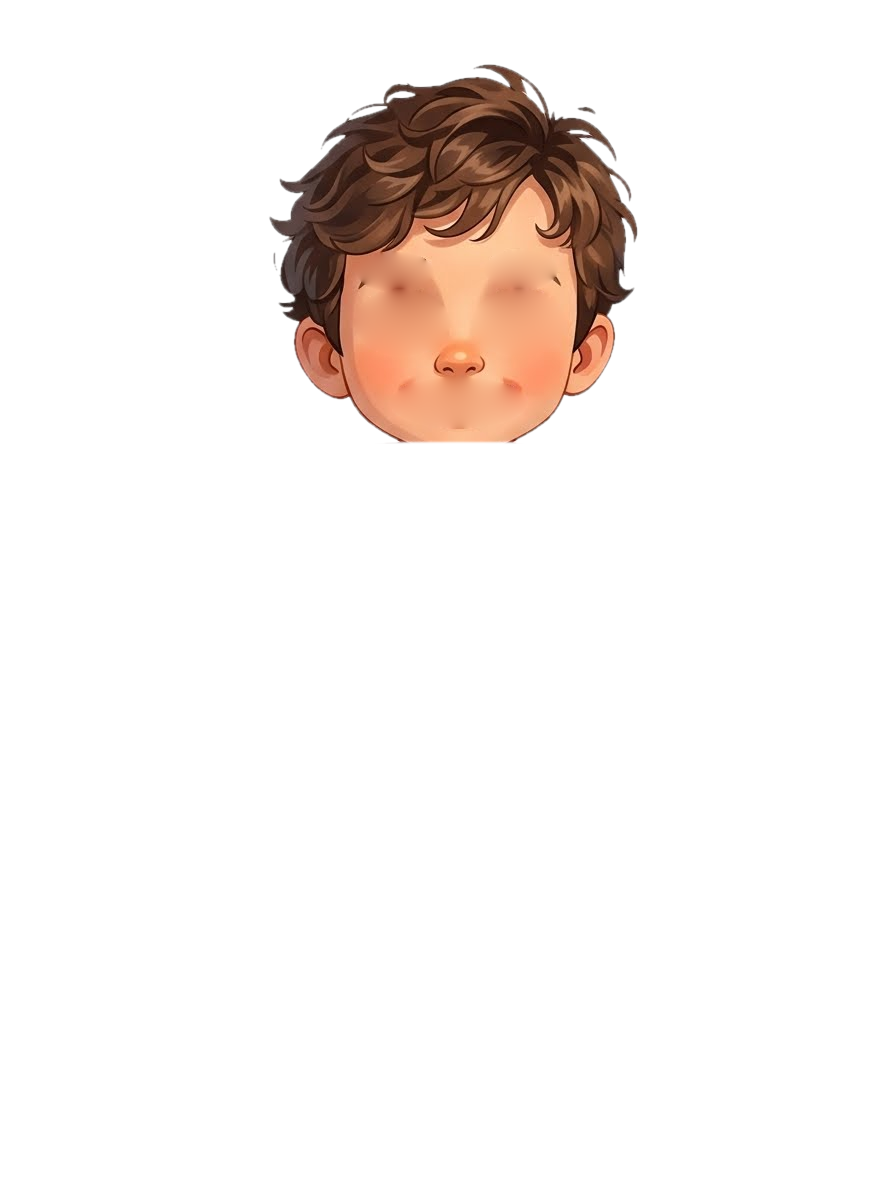
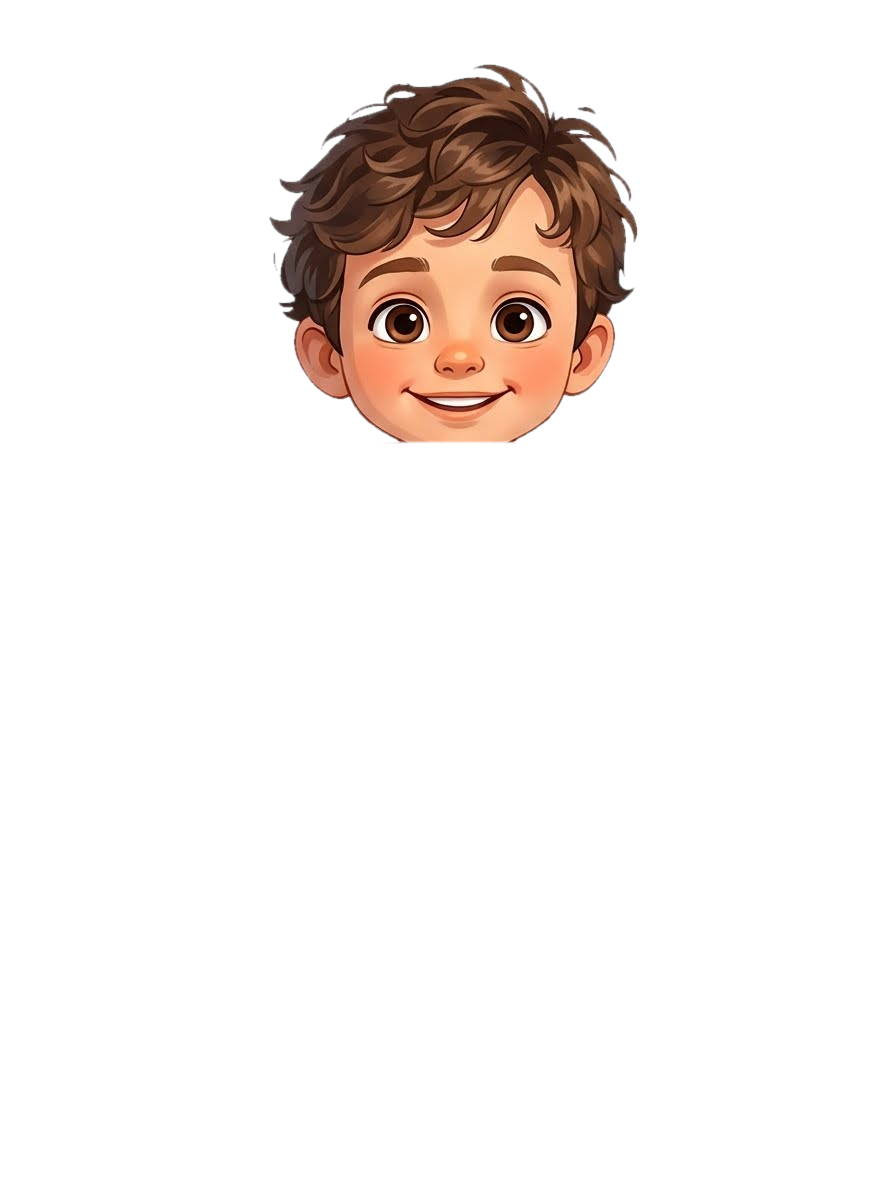
Caras: el dibujo original de E y R, sin redibujar (#3)
* Caras: el dibujo original de E y R, sin redibujar

Chiño quiere en los vídeos exactamente las caras de sus ilustraciones.
head.png conserva la cara tal cual; prepare_characters.py saca del propio
dibujo dos capas pequeñas: blink.png (ojos cerrados) y jaw.png (lo que hay
bajo el labio, que baja al hablar sobre el interior de la boca). Fuera los
ojos, cejas y boca vectoriales. El cuerpo empieza 5 px por debajo de la
cabeza para que no se vea la costura del cuello al moverla.

Claude-Session: https://claude.ai/code/session_0193hWfzVzPtkdWeitjtRJrp

* Bocadillos que apuntan al que habla y caras sin deformar

- stage.js calcula dónde está en pantalla la boca de cada niño (con la
  cámara y la profundidad) y el bocadillo se coloca debajo del que habla,
  con la cola hacia su boca; en "ambos", una cola hacia cada uno.
- puppets.js ya no aplasta ni estira a los niños (squash): siempre la
  proporción del dibujo.

Claude-Session: https://claude.ai/code/session_0193hWfzVzPtkdWeitjtRJrp

* Bocadillos sin etiqueta de nombre

Chiño: fuera la E / R de debajo de los bocadillos. Quién habla se ve por
la cola (hacia su boca) y el color de la palabra.

Claude-Session: https://claude.ai/code/session_0193hWfzVzPtkdWeitjtRJrp

---------

Changed region(s): [[0.4062, 0.2158, 0.625, 0.37]]

diff --git a/src/puppets.js b/src/puppets.js
@@ -11,8 +11,8 @@
   const f1 = v => (+v).toFixed(1);
 
   // ---------- expressions (docs/biblia-personajes.md §4) ----------
-  // brows: [left, right] { up: px raised, tilt: inner end up (+) / down (-) }, lids: upper lid cover 0..1,
-  // mouth: { w: width factor, curve: smile (+) / frown (-), open 0..1, round 0..1 (an "o"), asym: one corner up }
+  // The scripts' vocabulary of faces. The faces themselves are the drawing, so of these values only mouth.open is
+  // used (a surprised face keeps the mouth a little open); the rest is kept for when the drawn faces get variants.
   const B = (up = 0, tilt = 0) => ({ up, tilt });
   const EXPR = {
     neutral: { brows: [B(), B()], lids: [0.12, 0.12], mouth: { w: 0.62, curve: 0.35 } },
@@ -34,94 +34,6 @@
   };
   const lerp = (a, b, k) => a + (b - a) * k;
 
-  function eyes(rig, st, id) {
-    const ex = EXPR[st.face] || EXPR.neutral;
-    const look = st.look || ex.look || [0, 0];
-    const blink = st.blink || 0;
-    let out = '';
-    rig.eyes.forEach((e, i) => {
-      const { x, y, w, h } = e;
-      const top = `M ${f1(x - w / 2)} ${f1(y + h * 0.06)} C ${f1(x - w * 0.36)} ${f1(y - h * 0.66)} ${f1(x + w * 0.36)} ${f1(y - h * 0.66)} ${f1(x + w / 2)} ${f1(y + h * 0.02)}`;
-      const shape = `${top} C ${f1(x + w * 0.34)} ${f1(y + h * 0.62)} ${f1(x - w * 0.34)} ${f1(y + h * 0.62)} ${f1(x - w / 2)} ${f1(y + h * 0.06)} Z`;
-      const ir = h * 0.5, pr = ir * 0.5 * (st.pupil ?? ex.pupil ?? 1);
-      const ix = x + look[0] * w * 0.2, iy = y + h * 0.05 + look[1] * h * 0.14;
-      const lid = Math.min(1, Math.max(ex.lids[i] ?? 0, st.lid ?? 0, blink));
-      const ly = y - h * 0.58 + lid * h * 1.18;           // lower edge of the upper lid
-      const cid = `${id}eye${i}`;
-      out += `<clipPath id="${cid}"><path d="${shape}"/></clipPath>
-        <path d="${shape}" fill="#FFFDF8"/>
-        <g clip-path="url(#${cid})">
-          <ellipse cx="${f1(x)}" cy="${f1(y - h * 0.34)}" rx="${f1(w * 0.6)}" ry="${f1(h * 0.3)}" fill="#E9D6CC" opacity="0.7"/>
-          <circle cx="${f1(ix)}" cy="${f1(iy)}" r="${f1(ir)}" fill="url(#${id}iris)"/>
-          <circle cx="${f1(ix)}" cy="${f1(iy)}" r="${f1(ir)}" fill="none" stroke="${rig.iris[0]}" stroke-width="2.2"/>
-          <circle cx="${f1(ix)}" cy="${f1(iy)}" r="${f1(pr)}" fill="#120A06"/>
-          <circle cx="${f1(ix + ir * 0.32)}" cy="${f1(iy - ir * 0.36)}" r="${f1(ir * 0.27)}" fill="#fff"/>
-          <circle cx="${f1(ix - ir * 0.34)}" cy="${f1(iy + ir * 0.34)}" r="${f1(ir * 0.11)}" fill="#fff" opacity="0.85"/>
-          ${lid > 0.01 ? `<path d="M ${f1(x - w)} ${f1(y - h * 1.2)} H ${f1(x + w)} V ${f1(ly)} Q ${f1(x)} ${f1(ly + h * 0.22 * (1 - lid * 0.6))} ${f1(x - w)} ${f1(ly)} Z" fill="${rig.lid || rig.skin}"/>` : ''}
-        </g>`;
-      // lash line: along the lid edge, or the top of the eye when the lid is up
-      // the ends stay on the eye corners, so a closed eye reads as a soft arc, not a bar
-      const le = Math.min(Math.max(ly, y - h * 0.3), y + h * 0.05);
-      const lm = Math.min(Math.max(ly, y - h * 0.4) + h * 0.22 * (1 - lid * 0.6), y + h * 0.3);
-      const lash = lid > 0.16
-        ? `M ${f1(x - w / 2 - 2)} ${f1(le)} Q ${f1(x)} ${f1(2 * lm - le)} ${f1(x + w / 2 + 3)} ${f1(le)}`
-        : top;
-      const flick = i === 0 ? `M ${f1(x - w / 2)} ${f1(y + h * 0.02)} l -7 -6` : `M ${f1(x + w / 2)} ${f1(y)} l 7 -6`;
-      out += `<path d="${lash}" fill="none" stroke="#2A1810" stroke-width="5" stroke-linecap="round"/>
-        <path d="${flick}" fill="none" stroke="#2A1810" stroke-width="4" stroke-linecap="round"/>
-        <path d="M ${f1(x - w * 0.4)} ${f1(y + h * 0.34)} Q ${f1(x)} ${f1(y + h * 0.58)} ${f1(x + w * 0.4)} ${f1(y + h * 0.34)}" fill="none" stroke="#B07A5E" stroke-width="1.8" opacity="0.6"/>`;
-    });
-    return out;
-  }
-
-  function brows(rig, st) {
-    const ex = EXPR[st.face] || EXPR.neutral;
-    return rig.brows.map((b, i) => {
-      const d = i === 0 ? 1 : -1;                 // left brow: inner end to the right
-      const p = ex.brows[i] || B();
-      const up = p.up + (st.browUp ?? 0), t = p.tilt;
-      const ix = b.x + d * b.w / 2, ox = b.x - d * b.w / 2;
-      const iy = b.y - up - t * 1.4, oy = b.y - up + t * 0.6 + 3;
-      const my = b.y - up - 8;
-      const th = 10;
-      return `<path d="M ${f1(ox)} ${f1(oy)} Q ${f1(b.x)} ${f1(my - th / 2)} ${f1(ix)} ${f1(iy)} Q ${f1(b.x)} ${f1(my + th)} ${f1(ox)} ${f1(oy)} Z" fill="${rig.brow}" stroke="${rig.brow}" stroke-width="3.5" stroke-linejoin="round"/>`;
-    }).join('');
-  }
-
-  function mouth(rig, st, id) {
-    const ex = EXPR[st.face] || EXPR.neutral;
-    const m = Object.assign({ w: 0.6, curve: 0.3, open: 0, round: 0, asym: 0 }, ex.mouth);
-    const talk = st.talk || 0;
-    // talking opens the mouth from its resting shape
-    const open = Math.min(1, m.open + talk * (0.55 - m.open * 0.3));
-    const W = rig.mouth.w, cx = rig.mouth.x, cy = rig.mouth.y;
-    const round = Math.max(m.round, talk * 0.25);
-    const hw = W / 2 * lerp(m.w, 0.34, round * 0.8) * (1 - talk * 0.08);
-    const cyL = -m.curve * W * 0.1 - m.asym * W * 0.06, cyR = -m.curve * W * 0.1 + m.asym * W * 0.06;
-    const midClosed = m.curve * W * 0.1;
-    if (open < 0.06) {
-      return `<path d="M ${f1(cx - hw)} ${f1(cy + cyL)} Q ${f1(cx)} ${f1(cy + midClosed * 1.4)} ${f1(cx + hw)} ${f1(cy + cyR)}" fill="none" stroke="${rig.lip}" stroke-width="5.5" stroke-linecap="round"/>
-        ${m.curve > 0.5 ? `<path d="M ${f1(cx - hw - 5)} ${f1(cy + cyL - 3)} q 4 3 6 8 M ${f1(cx + hw + 5)} ${f1(cy + cyR - 3)} q -4 3 -6 8" fill="none" stroke="${rig.lip}" stroke-width="2.6" stroke-linecap="round" opacity="0.6"/>` : ''}`;
-    }
-    if (round > 0.5) {
-      // an "o": an oval that opens with the voice
-      const rx = W * (0.11 + open * 0.05) * (m.w / 0.4), ry = W * (0.1 + open * 0.13);
-      return `<ellipse cx="${f1(cx)}" cy="${f1(cy + ry * 0.35)}" rx="${f1(rx)}" ry="${f1(ry)}" fill="#5B1E18" stroke="${rig.lip}" stroke-width="3.6"/>
-        <ellipse cx="${f1(cx)}" cy="${f1(cy + ry * 1.0)}" rx="${f1(rx * 0.6)}" ry="${f1(ry * 0.35)}" fill="#E0736E"/>`;
-    }
-    const topY = midClosed * 0.4 - open * W * 0.04 - round * open * W * 0.12;
-    const botY = midClosed * 1.3 + open * W * (0.3 + round * 0.12);
-    const shape = `M ${f1(cx - hw)} ${f1(cy + cyL)} Q ${f1(cx)} ${f1(cy + topY * 2 - (cyL + cyR) / 2)} ${f1(cx + hw)} ${f1(cy + cyR)} Q ${f1(cx)} ${f1(cy + botY * 2 - (cyL + cyR) / 2)} ${f1(cx - hw)} ${f1(cy + cyL)} Z`;
-    const cid = `${id}mouth`;
-    return `<clipPath id="${cid}"><path d="${shape}"/></clipPath>
-      <path d="${shape}" fill="#5B1E18"/>
-      <g clip-path="url(#${cid})">
-        <rect x="${f1(cx - hw)}" y="${f1(cy + Math.min(cyL, cyR) - W * 0.2)}" width="${f1(hw * 2)}" height="${f1(W * 0.2 + (topY > 0 ? topY : 0) + W * 0.08 * Math.min(1, open * 2) * (1 - round))}" fill="#FFFFFF"/>
-        <ellipse cx="${f1(cx)}" cy="${f1(cy + botY)}" rx="${f1(hw * 0.7)}" ry="${f1(W * 0.12)}" fill="#E0736E"/>
-      </g>
-      <path d="${shape}" fill="none" stroke="${rig.lip}" stroke-width="3.6" stroke-linejoin="round"/>`;
-  }
-
   // emotes over the head: ? ! ... bulb, drop, hearts, swirl, sparkle
   function emote(kind, k, x, y) {
     if (!kind || k <= 0) return '';
@@ -139,23 +51,40 @@
     return `<g transform="translate(${f1(x)} ${f1(y)}) scale(${f1(s)}) rotate(${f1(Math.sin(k * 7) * 4)})">${g}</g>`;
   }
 
-  // a kid: st = { who: 'e'|'r', x, y (floor), s, face, look, blink, talk, headR, headX, headY, lean, squash, flip, emote, emoteK, o }
+  // a kid: st = { who: 'e'|'r', x, y (floor), s, face, look, blink, talk, headR, headX, headY, lean, flip, emote, emoteK, o }
+  // The face is Chiño's drawing, untouched (docs/biblia-personajes.md). Only two things move, both made from the
+  // drawing itself by tools/prepare_characters.py: the eyes close (blink.png) and, while speaking, the part below
+  // the lip line slides down a few pixels (jaw.png) over the inside of the mouth.
+  function face(rig, img, st) {
+    const ex = EXPR[st.face] || EXPR.neutral;
+    const j = rig.jaw, talk = Math.max(0, Math.min(1, Math.max(st.talk || 0, (ex.mouth?.open || 0) * 0.6)));
+    const d = talk * j.d;
+    const mouth = d > 0.4
+      ? `<path d="M ${f1(j.ox - j.ow)} ${j.y - 1} Q ${j.ox} ${f1(j.y - 2)} ${f1(j.ox + j.ow)} ${j.y - 1} Q ${j.ox} ${f1(j.y + d * 2.2)} ${f1(j.ox - j.ow)} ${j.y - 1} Z" fill="${j.inside}"/>
+         <ellipse cx="${j.ox}" cy="${f1(j.y + d * 0.9)}" rx="${f1(j.ow * 0.45)}" ry="${f1(d * 0.35)}" fill="#B4504A" opacity="0.8"/>
+         <image href="${img.jaw}" x="0" y="${f1(d)}" width="${rig.w}" height="${rig.h}"/>`
+      : '';
+    const shut = Math.max(st.blink || 0, st.lid || 0) > 0.5;
+    return mouth + (shut ? `<image href="${img.blink}" x="0" y="0" width="${rig.w}" height="${rig.h}"/>` : '');
+  }
+
   function kid(st) {
     const rig = RIG[st.who], img = IMG[st.who];
     const id = `k${st.who}`;
-    const s = st.s ?? 1, sq = st.squash ?? 1;
+    // never squashed or stretched: the kids always keep the proportions of the drawing (Chiño's rule), so the
+    // squash that stage.js / director.mjs compute is ignored here; jumps and dips still move the whole body
+    const s = st.s ?? 1;
     const [px, py] = rig.pivot;
     const sh = `<ellipse cx="${rig.center}" cy="${rig.feet + 4}" rx="${f1(200 * (1 - (st.jump ?? 0) * 0.002))}" ry="26" fill="url(#kshadow)"/>`;
     const head = `<g transform="translate(${f1(st.headX ?? 0)} ${f1(st.headY ?? 0)}) rotate(${f1(st.headR ?? 0)} ${px} ${py})">
         <image href="${img.head}" x="0" y="0" width="${rig.w}" height="${rig.h}"/>
-        ${brows(rig, st)}${eyes(rig, st, id)}${mouth(rig, st, id)}
+        ${face(rig, img, st)}
         ${st.blush ? `<g opacity="${f1(st.blush)}"><ellipse cx="${rig.eyes[0].x - 10}" cy="${rig.mouth.y - 22}" rx="34" ry="18" fill="#FF6B6B" opacity="0.35"/><ellipse cx="${rig.eyes[1].x + 10}" cy="${rig.mouth.y - 22}" rx="34" ry="18" fill="#FF6B6B" opacity="0.35"/></g>` : ''}
       </g>`;
-    const defs = `<defs><radialGradient id="${id}iris" cx="50%" cy="58%" r="55%"><stop offset="0" stop-color="${rig.iris[2]}"/><stop offset="0.55" stop-color="${rig.iris[1]}"/><stop offset="1" stop-color="${rig.iris[0]}"/></radialGradient></defs>`;
     const em = emote(st.emote, st.emoteK ?? 1, rig.center + (st.who === 'e' ? 190 : -190), rig.bbox[1] + 40);
     const flip = st.flip ? -1 : 1;
-    return `<g transform="translate(${f1(st.x)} ${f1(st.y)}) rotate(${f1(st.lean ?? 0)}) scale(${f1(s * flip / Math.sqrt(sq))} ${f1(s * sq)}) translate(${-rig.center} ${-rig.feet})" opacity="${st.o ?? 1}">
-      ${defs}${sh}<image href="${img.body}" x="0" y="0" width="${rig.w}" height="${rig.h}"/>${head}${em}</g>`;
+    return `<g transform="translate(${f1(st.x)} ${f1(st.y)}) rotate(${f1(st.lean ?? 0)}) scale(${f1(s * flip)} ${f1(s)}) translate(${-rig.center} ${-rig.feet})" opacity="${st.o ?? 1}">
+      ${sh}<image href="${img.body}" x="0" y="0" width="${rig.w}" height="${rig.h}"/>${head}${em}</g>`;
   }
 
   // ---------- icons for the insert cards (centered at 0,0, about 200 px) ----------

diff --git a/src/stage.js b/src/stage.js
@@ -145,6 +145,7 @@
     if (tr.dy) cy += tr.dy;
     const shake = cam.shake ? `translate(${(Math.sin(gt * 61) * cam.shake).toFixed(1)} ${(Math.cos(gt * 47) * cam.shake).toFixed(1)})` : '';
     let world = '', overlay = '';
+    const mouths = {};
     const actors = beat.actors.slice().sort((a, b) => a.z - b.z);
     for (const a of actors) {
       const st = stateAt(a.keys, lt, beat);
@@ -159,7 +160,13 @@
         st.talk = sp >= 0 && st.mute !== true ? Math.max(0, 0.55 + 0.35 * Math.sin(sp * 17.3) + 0.25 * Math.sin(sp * 29.1 + 1.3)) * Math.min(1, sp * 8) : 0;
         const ln = sp >= 0 ? beat.lines.find(l => (l.who === st.who || l.who === 'ambos') && gt >= l.start && gt <= l.start + l.dur) : null;
         if (ln && gt > ln.start + ln.dur - 0.08) st.talk = 0;
-        svg = kid(LIFE && st.life !== false ? alive(a, st, beat, lt, gt, sp) : { ...st });
+        const ks = LIFE && st.life !== false ? alive(a, st, beat, lt, gt, sp) : { ...st };
+        svg = kid(ks);
+        // where the mouth is on screen, so the caption bubble can point at whoever speaks
+        const rig = window.KID_RIG[ks.who], m = rig.jaw || rig.mouth, ksc = ks.s ?? 1;
+        let wx = ks.x + (m.x - rig.center) * ksc * (ks.flip ? -1 : 1) + (ks.headX ?? 0) * ksc, wy = ks.y + (m.y - rig.feet) * ksc + (ks.headY ?? 0) * ksc;
+        if (a.depth != null && a.depth !== 1) { const k = (1 + (cz - 1) * a.depth) / cz; wx = cx + (wx - cx) * k + (cx - W / 2) * (1 - a.depth); wy = cy + (wy - cy) * k + (cy - H / 2) * (1 - a.depth); }
+        mouths[ks.who] = { x: W / 2 + (wx - cx) * cz, y: H / 2 + (wy - cy) * cz };
       } else if (PROPS[a.type]) {
         const inner = PROPS[a.type](st);
         svg = `<g transform="translate(${st.x ?? 0} ${st.y ?? 0}) rotate(${st.r ?? 0}) scale(${(st.sc ?? 1) * (st.fx ? -1 : 1)} ${st.sc ?? 1})" opacity="${st.o ?? 1}">${inner}</g>`;
@@ -181,14 +188,14 @@
     if (cam.flash) html += `<rect width="${W}" height="${H}" fill="#fff" opacity="${cam.flash}"/>`;
     if (cam.black) html += `<rect width="${W}" height="${H}" fill="#111" opacity="${cam.black}"/>`;
     html += tr.over || '';
-    html += captions(beat, gt) + '</svg>';
+    html += captions(beat, gt, mouths) + '</svg>';
     root.innerHTML = html;
   }
 
   // burned-in captions as a speech bubble over the speaker's side: the line in chunks of up to ~6 words, timed by
   // the word boundaries of the voice, the word being said in the speaker's colour. Inside the safe area of
   // Reels / Shorts / Facebook (clear of the top bar, the bottom caption and the right-hand buttons).
-  function captions(beat, gt) {
+  function captions(beat, gt, mouths = {}) {
     if (ep.captions === false) return '';
     for (const ln of beat.lines) {
       if (gt < ln.start || gt > ln.start + ln.dur + 0.12 || !ln.text) continue;
@@ -210,18 +217,25 @@
       const tsp = lines.map(l => l.split(' ').map(wd => { const i = ch[k++]; return `<tspan fill="${i === idx ? col : INK}">${esc(wd)}</tspan>`; }).join(' '));
       const w = Math.min(980, Math.max(...lines.map(l => l.length)) * fs * 0.55 + 80), h = lines.length * lh + 44;
       const side = who === 'e' ? -1 : who === 'r' ? 1 : 0;
-      const cx = Math.max(w / 2 + 50, Math.min(W - w / 2 - 50, W / 2 + side * 150)), cy = ep.capY ?? 1470;
-      // the tail points up, towards the speaker's face
-      const tx = W / 2 + side * 260, ty = cy - h / 2;
-      const b0 = Math.max(cx - w / 2 + 50, Math.min(cx + w / 2 - 110, tx - 30)), b1 = b0 + 60;
-      const tail = `M ${b0.toFixed(1)} ${(ty + 4).toFixed(1)} L ${(tx + side * 34).toFixed(1)} ${(ty - 64).toFixed(1)} L ${b1.toFixed(1)} ${(ty + 4).toFixed(1)} Z`;
-      const name = ep.names?.[who];
+      const cy = ep.capY ?? 1470, ty = cy - h / 2;
+      // the bubble sits under the speaker and its tail points at the speaker's mouth (both kids for "ambos")
+      const targets = (who === 'ambos' ? ['e', 'r'] : [who]).map(k => mouths[k]).filter(Boolean);
+      const fallback = { x: W / 2 + side * 260, y: ty - 400 };
+      const aim = targets.length ? targets : [fallback];
+      const mx = who === 'ambos' ? W / 2 : aim[0].x;
+      const cx = Math.max(w / 2 + 50, Math.min(W - w / 2 - 50, mx));
+      const tail = aim.map(p => {
+        const bx = Math.max(cx - w / 2 + 60, Math.min(cx + w / 2 - 60, p.x));        // base on the top edge, under the mouth
+        const dx = p.x - bx, dy = Math.min(-40, p.y + 50 - ty), L = Math.hypot(dx, dy) || 1;
+        const len = Math.min(95, Math.max(48, L - 40));                               // stops short of the face
+        const tx = bx + dx / L * len, tyy = ty + dy / L * len;
+        return `M ${(bx - 32).toFixed(1)} ${(ty + 4).toFixed(1)} L ${tx.toFixed(1)} ${tyy.toFixed(1)} L ${(bx + 32).toFixed(1)} ${(ty + 4).toFixed(1)} Z`;
+      }).join(' ');
       const sc = 0.85 + 0.15 * (1 - Math.pow(1 - pop, 3));
       return `<g transform="translate(${cx.toFixed(1)} ${cy.toFixed(1)}) scale(${sc.toFixed(3)}) translate(${(-cx).toFixed(1)} ${(-cy).toFixed(1)})">
         <path d="${tail}" fill="#fff" stroke="${INK}" stroke-width="7" stroke-linejoin="round"/>
         <rect x="${(cx - w / 2).toFixed(1)}" y="${(cy - h / 2).toFixed(1)}" width="${w.toFixed(1)}" height="${h.toFixed(1)}" rx="40" fill="#fff" stroke="${INK}" stroke-width="7"/>
         <path d="${tail}" fill="#fff" stroke="none" transform="translate(0 9)"/>
-        ${name ? `<g transform="translate(${(side > 0 ? cx + w / 2 - 74 - name.length * 24 : cx - w / 2 + 34).toFixed(1)} ${(cy + h / 2 + 8).toFixed(1)})"><rect x="0" y="-30" width="${(name.length * 24 + 40).toFixed(0)}" height="50" rx="25" fill="${col}" stroke="${INK}" stroke-width="5"/><text x="${((name.length * 24 + 40) / 2).toFixed(0)}" y="-4" text-anchor="middle" dominant-baseline="central" font-family="${FONT}" font-weight="700" font-size="32" fill="#fff">${esc(name)}</text></g>` : ''}
         ${tsp.map((t, i) => `<text x="${cx.toFixed(1)}" y="${(cy - h / 2 + 22 + lh * (i + 0.5)).toFixed(1)}" text-anchor="middle" dominant-baseline="central" font-family="${FONT}" font-weight="700" font-size="${fs}">${t}</text>`).join('')}</g>`;
     }
     return '';

diff --git a/tools/prepare_characters.py b/tools/prepare_characters.py
@@ -5,8 +5,11 @@ Per character:
   - cuts the white background out (flood fill from the borders, so white shoes and teeth stay),
   - removes the brand-like logo of R's sneakers (originality rule of docs/biblia-personajes.md),
   - splits head / body at the chin so the head can turn, nod and tilt over the hood,
-  - paints the eyes, the mouth and the eyebrows out of the head (vertical interpolation of the skin around them):
-    src/puppets.js draws them as vectors, which is what lets the faces change expression and lip-sync.
+  - keeps the face exactly as it is in the drawing (Chiño's rule: the faces must be his illustrations), and makes
+    two small layers from the drawing itself so the face can move without redrawing it:
+      blink.png  the eyes closed: the eye area filled with the skin around it, plus a lash line,
+      jaw.png    the drawing below the lip line, which src/puppets.js slides down while the character speaks
+                 (the gap shows the inside of the mouth).
 The coordinates below were measured on the 896x1200 sources; rig.json carries them to the browser."""
 import json, os
 import numpy as np
@@ -22,7 +25,10 @@ RIGS = {
         'eyes': [{'x': 402, 'y': 321, 'w': 80, 'h': 56}, {'x': 518, 'y': 321, 'w': 78, 'h': 56}],
         'brows': [{'x': 395, 'y': 270, 'w': 62, 'tilt': -6}, {'x': 520, 'y': 268, 'w': 60, 'tilt': 6}],
         'mouth': {'x': 458, 'y': 400, 'w': 112},
-        'paint_out': [(390, 377, 527, 428), (356, 252, 434, 292), (484, 250, 558, 290), (354, 289, 450, 356), (472, 289, 566, 356)],
+        'lids': [(354, 289, 450, 356), (472, 289, 566, 356)],
+        # lip line: the top of the lower lip; the lower lip and the chin move from here. ox / ow: centre and half
+        # width of the mouth opening on that line (measured on the drawing), where the inside of the mouth shows
+        'jaw': {'x': 458, 'y': 406, 'w': 112, 'd': 8, 'ox': 456.5, 'ow': 29, 'inside': '#4A0E08'},
         'iris': ['#2B160B', '#6E3E1E', '#A8723F'], 'brow': '#7E4426', 'lip': '#7A3A2A',
     },
     'r': {
@@ -31,7 +37,8 @@ RIGS = {
         'eyes': [{'x': 405, 'y': 289, 'w': 76, 'h': 54}, {'x': 516, 'y': 289, 'w': 74, 'h': 54}],
         'brows': [{'x': 397, 'y': 240, 'w': 62, 'tilt': -4}, {'x': 522, 'y': 238, 'w': 62, 'tilt': 4}],
         'mouth': {'x': 461, 'y': 360, 'w': 96},
-        'paint_out': [(400, 344, 524, 380), (360, 226, 436, 256), (486, 224, 560, 254), (367, 262, 443, 318), (480, 262, 552, 318)],
+        'lids': [(367, 262, 443, 318), (480, 262, 552, 318)],
+        'jaw': {'x': 461, 'y': 363, 'w': 96, 'd': 7, 'ox': 454.5, 'ow': 27, 'inside': '#5A1A10'},
         'iris': ['#2E1A0C', '#734421', '#B07A45'], 'brow': '#A0642E', 'lip': '#8A4A36',
         # navy swoosh-like marks on both sneakers -> plain white leather
         'logo_boxes': [(318, 1072, 420, 1132), (470, 1072, 575, 1132)],
@@ -85,6 +92,53 @@ def paint_out(a, box, iters=1500):
     a[y0 - m:y1 + m, x0 - m:x1 + m] = sub * (1 - k) + f * k
 
 
+def blink_layer(a, rig):
+    """Closed eyes, from the drawing: each eye filled with the skin around it, and a soft lash arc where the lids meet."""
+    H, W = a.shape[:2]
+    f = a.copy()
+    lay = np.zeros((H, W, 4))
+    for box in rig['lids']:
+        paint_out(f, box)
+    m = Image.new('L', (W, H))
+    d = ImageDraw.Draw(m)
+    for (x0, y0, x1, y1) in rig['lids']:
+        d.ellipse((x0 - 4, y0 - 4, x1 + 4, y1 + 4), fill=255)
+    m = np.asarray(m.filter(ImageFilter.GaussianBlur(2.5))).astype(float)
+    lay[..., :3] = f
+    lay[..., 3] = m
+    img = Image.fromarray(lay.astype(np.uint8), 'RGBA')
+    # lash lines, drawn at 4x and scaled down so they are as smooth as the drawing
+    S = 4
+    big = Image.new('RGBA', (W * S, H * S))
+    g = ImageDraw.Draw(big)
+    for i, e in enumerate(rig['eyes']):
+        x, y, w, h = e['x'], e['y'], e['w'], e['h']
+        pts = []
+        for k in range(41):
+            t = k / 40
+            px = x - w / 2 + w * t
+            py = y + h * 0.05 + h * 0.24 * (1 - (2 * t - 1) ** 2)
+            pts.append((px * S, py * S))
+        g.line(pts, fill=(52, 28, 18, 255), width=int(4.5 * S), joint='curve')
+        # the little flick at the outer corner, like in the drawing
+        ox, sgn = (x - w / 2, -1) if i == 0 else (x + w / 2, 1)
+        g.line([(ox * S, (y + h * 0.05) * S), ((ox + sgn * 8) * S, (y - h * 0.08) * S)], fill=(52, 28, 18, 255), width=int(3.5 * S))
+    lash = big.resize((W, H), Image.LANCZOS)
+    return Image.alpha_composite(img, lash)
+
+
+def jaw_layer(a, alpha, rig):
+    """The drawing just below the lip line (lower lip and chin around the mouth), feathered at the sides and at the
+    bottom. Sliding it down a few pixels opens the mouth the drawing already has."""
+    H, W = a.shape[:2]
+    j = rig['jaw']
+    yy, xx = np.mgrid[0:H, 0:W]
+    dx = np.abs(xx - j['x']) / (j['w'] * 0.8)
+    below = (yy - j['y']) / 28.0       # stays well above the chin, so the jaw line never moves
+    m = np.clip((1 - dx) / 0.3, 0, 1) * np.clip((1 - below) / 0.5, 0, 1) * (yy >= j['y'])
+    return Image.fromarray(np.dstack([a, (m * alpha).clip(0, 255)]).astype(np.uint8), 'RGBA')
+
+
 def main():
     for cid, rig in RIGS.items():
         img = Image.open(os.path.join(SRC, rig['src'])).convert('RGB')
@@ -104,9 +158,7 @@ def main():
         # soften the cut line between head and body (2 px)
         hm = Image.new('L', (W, H)); hm.putdata(list((head * 255).astype(np.uint8).ravel()))
         hm = np.asarray(hm.filter(ImageFilter.GaussianBlur(1.0))) / 255.0
-        head_rgb = a.copy()
-        for box in rig['paint_out']:
-            paint_out(head_rgb, box)
+        head_rgb = a.copy()          # the face as drawn
         out = os.path.join(ROOT, 'assets/characters', cid)
         os.makedirs(out, exist_ok=True)
         ys, xs = np.where(alpha > 8)
@@ -115,7 +167,10 @@ def main():
         ha = (alpha * hm).clip(0, 255)
         Image.fromarray(np.dstack([head_rgb, ha]).astype(np.uint8), 'RGBA').save(os.path.join(out, 'head.png'), optimize=True)
         # body layer: everything else, plus a patch of neck skin that shows when the head turns
-        ba = (alpha * (1 - hm)).clip(0, 255)
+        # the body starts 5 px above the cut, under the head: no see-through seam when the head moves
+        bm = Image.new('L', (W, H)); bm.putdata(list((((yy < rig['chin'] - 5) & (alpha > 0)) * 255).astype(np.uint8).ravel()))
+        bm = np.asarray(bm.filter(ImageFilter.GaussianBlur(1.0))) / 255.0
+        ba = (alpha * (1 - bm)).clip(0, 255)
         body = Image.fromarray(np.dstack([a, ba]).astype(np.uint8), 'RGBA')
         px, py = rig['pivot']
         skin = tuple(int(v) for v in a[py - 12, px])
@@ -126,7 +181,11 @@ def main():
         neck = Image.new('RGBA', (W, H), skin + (255,)); neck.putalpha(nmi)
         body = Image.alpha_composite(neck, body)
         body.save(os.path.join(out, 'body.png'), optimize=True)
-        meta = {k: v for k, v in rig.items() if k not in ('src', 'paint_out', 'logo_boxes')}
+        for name, layer in (('blink', blink_layer(a, rig)), ('jaw', jaw_layer(a, alpha * hm, rig))):
+            la = np.asarray(layer).copy()
+            la[la[..., 3] == 0] = 0                      # empty pixels compress to nothing
+            Image.fromarray(la, 'RGBA').save(os.path.join(out, f'{name}.png'), optimize=True)
+        meta = {k: v for k, v in rig.items() if k not in ('src', 'lids', 'logo_boxes')}
         lid = np.array(skin) * 0.8 + np.array([232, 150, 112]) * 0.2   # lids: the skin, a touch warmer
         meta.update({'w': W, 'h': H, 'bbox': bbox, 'skin': '#%02X%02X%02X' % skin, 'lid': '#%02X%02X%02X' % tuple(int(v) for v in lid)})
         json.dump(meta, open(os.path.join(out, 'rig.json'), 'w'), indent=1)

diff --git a/docs/biblia-personajes.md b/docs/biblia-personajes.md
@@ -4,6 +4,8 @@ Dos niños intentan entender el mundo de los adultos. No son más listos que los
 
 Los diseños son los de las hojas de Chiño (`assets/characters/source/`). `tools/prepare_characters.py` los convierte en las capas que se animan (`assets/characters/e|r/`).
 
+**Las caras son el dibujo, tal cual.** No se redibujan ojos, cejas ni boca. Solo se mueven dos cosas, hechas con trozos del propio dibujo: los ojos se cierran al parpadear (`blink.png`) y, al hablar, la parte bajo el labio baja unos píxeles y deja ver el interior de la boca (`jaw.png`).
+
 ## 1. Los dos
 
 | | **E** | **R** |
@@ -30,7 +32,7 @@ E **no** es el listo ni R el tonto (ni al revés). E sabe la mitad de las cosas 
 ## 2. Reglas de diálogo
 
 - **Frases cortas.** Máximo 90 caracteres por línea; lo normal son 3 a 9 palabras. R suele hablar menos que E.
-- **Sin nombrarse.** Se llaman E y R, pero no se llaman por su nombre en el diálogo: una letra suelta no se entiende en voz alta. El nombre se ve en la etiqueta del bocadillo.
+- **Sin nombrarse.** Se llaman E y R, pero no se llaman por su nombre en el diálogo: una letra suelta no se entiende en voz alta. Quién habla se ve por la cola del bocadillo y el color de la palabra.
 - **Una línea, una voz.** Si los dos dicen algo a la vez, es una línea `"ambos"` (casi siempre el cierre).
 - **Turnos.** Pregunta → respuesta segura → pregunta que desmonta → respuesta que empeora... Un personaje puede encadenar dos líneas si la segunda es el giro.
 - **R desmonta con una sola pregunta.** "¿Y quién paga la tarjeta?" vale más que una explicación.
@@ -52,7 +54,7 @@ Una pausa es un gesto, no relleno: máximo 2 s cada una y 3,5 s por episodio.
 
 ## 4. Expresiones, gestos y emotes
 
-**Caras** (`src/puppets.js`, `EXPR`): `neutral`, `feliz`, `sonrisa`, `convencido`, `curioso`, `sorprendido`, `asombrado`, `serio`, `dudoso`, `pensativo`, `confundido`, `resignado`, `triste`, `picaro`, `enfadado`, `ilusionado`. Cada una mueve cejas (altura e inclinación), párpados y boca; la boca se abre con la voz (lip-sync) desde la forma de cada expresión.
+**Caras** (`src/puppets.js`, `EXPR`): `neutral`, `feliz`, `sonrisa`, `convencido`, `curioso`, `sorprendido`, `asombrado`, `serio`, `dudoso`, `pensativo`, `confundido`, `resignado`, `triste`, `picaro`, `enfadado`, `ilusionado`. Como la cara es el dibujo original, hoy solo cambian lo abierta que queda la boca (sorprendido, asombrado, feliz, ilusionado). Los nombres se mantienen en los guiones para cuando haya variantes dibujadas de la cara.
 
 **Gestos** (`src/director.mjs`, `GESTURES`): `salto`, `bota`, `asiente`, `niega`, `inclina`, `endereza`, `acerca`, `aparta`, `vuelve`, `encoge`. Con las manos en los bolsillos (como en las hojas), el cuerpo actúa con la cabeza, la postura y el peso.
 

diff --git a/docs/direccion.md b/docs/direccion.md
@@ -5,10 +5,10 @@
 ## Capas de cada fotograma (de atrás adelante)
 
 1. **Escenario** (`dormitorio`, `salon`, `parque`, `cocina`, `cole`, `calle`): vectorial, colores suaves y poco contraste para que los niños destaquen. Se mueve un poco menos que los personajes con la cámara (paralaje).
-2. **E y R**: las capas cuerpo / cabeza sacadas de las hojas de personaje, con ojos, cejas y boca vectoriales encima (`src/puppets.js`). E siempre a la izquierda, R a la derecha, de pie sobre el suelo y mirándose.
+2. **E y R**: las capas cuerpo / cabeza sacadas de las hojas de personaje, con la cara del dibujo original; solo se animan el parpadeo y la boca al hablar, con trozos del propio dibujo (`src/puppets.js`, `face()`). E siempre a la izquierda, R a la derecha, de pie sobre el suelo y mirándose.
 3. **Gancho**: la pregunta del episodio en una tarjeta blanca con el distintivo de la serie. Grande desde el primer fotograma; cuando termina la primera frase se encoge y queda arriba como recordatorio del tema.
 4. **Tarjetas**: un icono y una palabra o cifra ("30 AÑOS", "−2 €") que entran con un pop mientras se dice esa línea, sobre las cabezas.
-5. **Bocadillo**: los subtítulos son un bocadillo blanco bajo las caras, con la cola hacia quien habla, la palabra que se está diciendo en su color (rojo E, azul R) y su nombre.
+5. **Bocadillo**: los subtítulos son un bocadillo blanco bajo el que habla, con la cola hacia su boca (una cola a cada uno si hablan los dos) y la palabra que se está diciendo en su color (rojo E, azul R). Sin etiqueta de nombre.
 6. **Sello final**: "Cosas de mayores." estampado en rojo, con el @ del canal debajo.
 
 ## Planos (los decide `src/director.mjs`)
